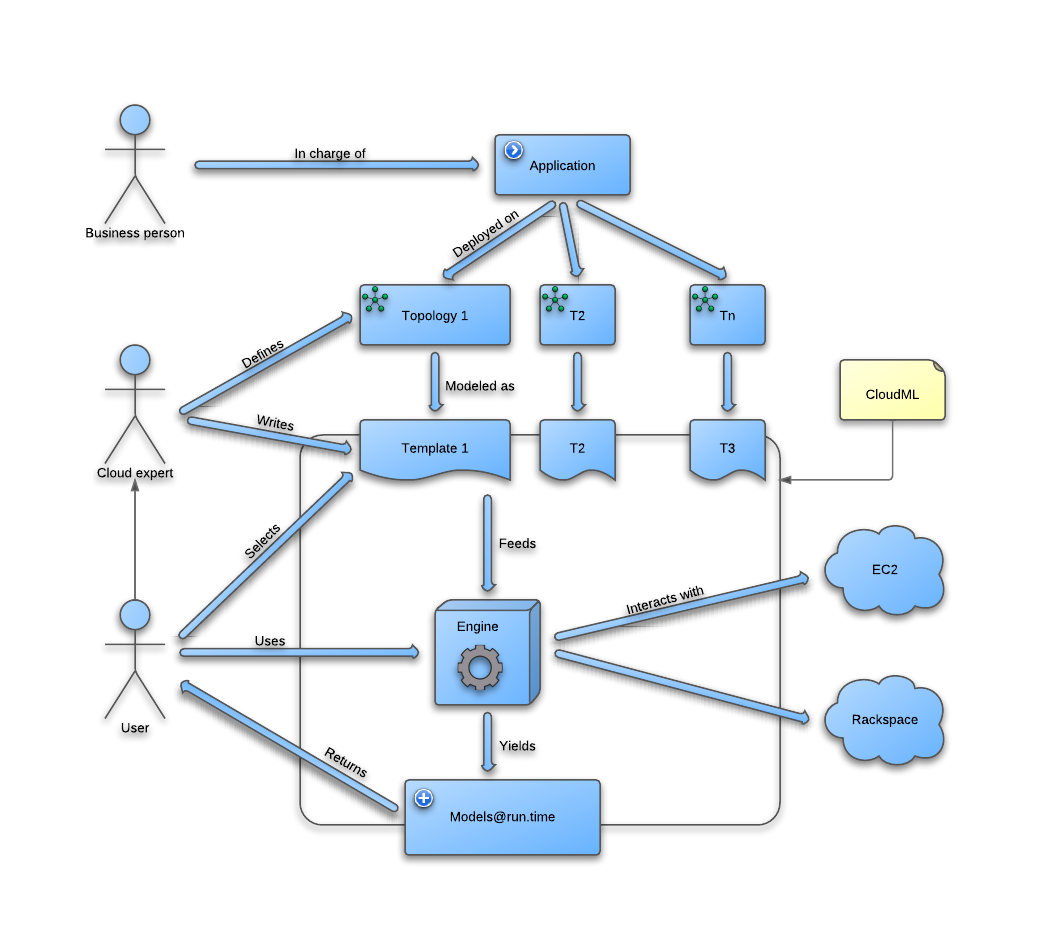
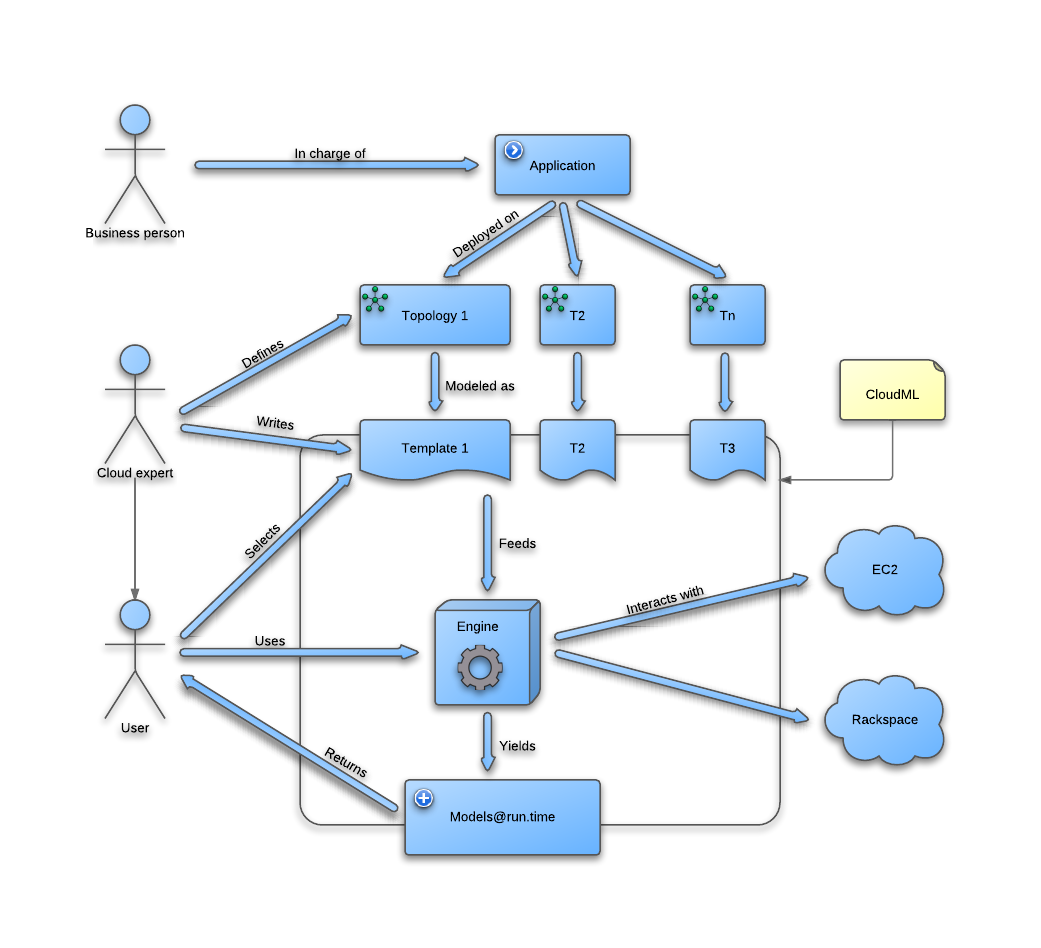
Comments for "vision" chapter

diff --git a/doc/thesis/chapters/vision.tex b/doc/thesis/chapters/vision.tex
@@ -1,16 +1,11 @@
 \mychapter{vision}{Vision, concepts and principles}
 \input{figs/big-picture}
 
-In this chapter the core idea of CloudML will be presented,
-such as how a procedure of node provisioning is conducted in the 
-perspective of different actors.
-
+In this chapter the core idea of CloudML will be presented.
 The concept and principle of CloudML is to be an easier and more reliable
 path into cloud computing for IT-driven businesses of variable sizes.
 The tool is visioned to parse and execute template files representing topologies
-and provision these as instances to the cloud. 
-
-\section{The ``big picture''}
+and provision these as instances available in the cloud. 
 
 The vision of CloudML is reflected through \citefig{big-picture} which gives
 an overview of the procedure flow in and around CloudML.
@@ -34,13 +29,13 @@ In \citefig{big-picture} there are three actors,
     services these offer, limitations, API support and prices.
     The last actor,
   \iitem user is a person which directly utilize CloudML to do provisioning.
-    This physical person may or may not have the role of cloud expert, hence 
-    the actor extends from cloud expert.
+    This physical person may or may not have the role of cloud expert, 
+    hence the the cloud expert extends from the user actor.
 \end{ii}
 
 \paragraph{Application and topologies.}
 
-The business person is in charge of the application, he or she has a need
+The business person is in charge of the application, he/she has a need
 for an application that can fulfill certain tasks, and to handle these 
 tasks application demands are made.
 The cloud expert use the requirements sketched by the business person to 
@@ -49,7 +44,7 @@ A topology is a map of nodes connected together in a specific pattern,
 defined by the cloud expert.
 In a topology there is also information about node attributes 
 \eg, \myac{CPU} power and \myac{RAM} sizes.
-He or she might create several topologies to fulfill the application demands.
+He/she might create several topologies to fulfill the application demands.
 
 \paragraph{Templates.}
 
@@ -57,21 +52,16 @@ The next step is to create templates based on the topologies, this is done by
 the cloud expert.
 A template is a digital reflection of a topology including the attributes and some additional 
 information such as node names and template labeling.
-It is also possible to define more than one topology within a single template,
-but for the sake of tidiness, clarity and technical limitations it 
-should not be possible to define cross-provider (\emph{multicloud}) nodes in a single topology.
-This itself does not mean CloudML will not support multicloud provisioning,
-instead such functionality is achieved by utilizing more than one template,
-which will not retain a full multicloud deployment.
+It is also possible to define more than one topology within a single template.
 
 \paragraph{Engine.}
 
 When the cloud expert have designed and created the necessary templates the next actor, 
 user, will continue the procedure.
-The user select the templates and feed them into the engine.
-The engine is the core of the implementation handling several steps and executing
+The user selects the template and feeds them into the engine.
+The engine is the core of the implementation, handling several steps and executing
 most of the CloudML logic.
-The engine operates in five different steps:
+The engine operates according to five different steps:
 \begin{enumerate}
   \item Convert the template files into a native format for later use.
   \item Convert pure nodes into instances ready for provisioning.
@@ -88,9 +78,9 @@ cloud provider that will be supported by CloudML can be utilized.
 As discussed in \citechap{state-of-the-art} and \citechap{challenges}
 different providers implement different solutions for communication
 \eg, for provisioning nodes, managing nodes and services or terminating instances.
-For engine to interact with a set of different providers some tool, library
-or framework is needed that can connect to the different providers through
-a common interface.
+For the engine to interact with a set of different providers, 
+some tools (library or framework) are needed.
+These tools can connect to the different providers through a common interface.
 
 \paragraph{Models@run.time.}
 

diff --git a/doc/thesis/chapters/requirements.tex b/doc/thesis/chapters/requirements.tex
@@ -160,7 +160,8 @@ and at the same time keep in mind the dependency towards \citereq{foundation}.
 There are several different approaches that could be made when implementing 
 these models, such as using
 \begin{ii}
-  \iitem standard Java classes and expect users to do \emph{short polling} \todo{[need source?]},
+  \iitem standard Java classes and expect users to do \emph{short polling} (client 
+  must poll for updates at a set interval, \eg, every 5 seconds),
   \iitem \emph{command pattern} to send events on node updates,
   \iitem \emph{aspect-oriented programming} to enhance asynchronous support and modularity or
   \iitem \emph{publish subscribe pattern} to let users subscribe to events of updating instances.

diff --git a/doc/thesis/chapters/design.tex b/doc/thesis/chapters/design.tex
@@ -24,6 +24,14 @@ Of these steps step $1$ (one) to $3$ (three) are already covered by \citechap{st
 This chapter is an intermediate chapter which will introduce the chapter of \citechap{design}
 and \citechap{implementation}.
 
+\todo{read over}
+
+For the sake of tidiness, clarity and technical limitations it 
+should not be possible to define cross-provider (\emph{multicloud}) nodes in a single topology.
+This itself does not mean CloudML will not support multicloud provisioning,
+instead such functionality is achieved by utilizing more than one template,
+which will not retain a full multicloud deployment.
+
 \begin{center}
 \line(1,0){250}
 \end{center}

diff --git a/doc/thesis/chapters/challenges.tex b/doc/thesis/chapters/challenges.tex
@@ -74,8 +74,7 @@ The providers chosen are
   \iitem \myac{AWS}~\cite{aws} and
   \iitem Rackspace~\cite{rackspace}.
 \end{ii}
-These are strong providers with a respectable amount of customers, as two of the leaders in cloud computing
-[\todo{source}].
+These are strong providers with a respectable amount of customers, as two of the leaders in cloud computing.
 They also have different graphical interfaces, APIs and toolchains which makes them suitable
 for a scenario researching multicloud challenges.
 

diff --git a/doc/thesis/chapters/introduction.tex b/doc/thesis/chapters/introduction.tex
@@ -2,16 +2,7 @@
 \note{Short and sharp}
 
 \todo{
-  \begin{itemize}
-    \item Main introduction
-    \item Write lastly
-  \end{itemize}
-}
-
-\todo{
   Talk about the two submitted papers (CloudMDE, Sebastiens paper). \\
-  Involvement in REMICS (Deliverable 4.1).
-  \\
-  \\
+  Involvement in REMICS (Deliverable 4.1).  \\
   These should also be woven into \emph{contribution}
 }
